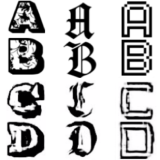
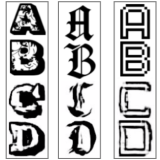
adding EMNLP

diff --git a/index.html b/index.html
@@ -60,6 +60,40 @@
         </tbody></table>
         <table style="width:100%;border:0px;border-spacing:0px;border-collapse:separate;margin-right:auto;margin-left:auto;"><tbody>
 
+          <tr onmouseout="font_stop()" onmouseover="font_start()">
+            <td style="padding:20px;width:25%;vertical-align:middle">
+              <div class="one">
+                <div class="two" id='font_image'><img src='images/font_after.png'></div>
+                <img src='images/font_before.png'>
+              </div>
+              <script type="text/javascript">
+                function font_start() {
+                  document.getElementById('font_image').style.opacity = "1";
+                }
+
+                function font_stop() {
+                  document.getElementById('font_image').style.opacity = "0";
+                }
+                font_stop()
+              </script>
+            </td>
+            <td style="padding:20px;width:75%;vertical-align:middle">
+              <a href="TODO">
+                <papertitle>A Deep Factorization of Style and Structure in Fonts</papertitle>
+              </a>
+              <br>
+              <a href="http://www.cs.cmu.edu/~asrivats/">Akshay Srivatsan</a>,
+              <strong>Jonathan T. Barron</strong>,
+              <a href="https://people.eecs.berkeley.edu/~klein/">Dan Klein</a>,
+              <a href="http://cseweb.ucsd.edu/~tberg/">Taylor Berg-Kirkpatrick</a>
+              <br>
+              <em>EMNLP</em>, 2019
+              <br>
+              <p></p>
+              <p>Variational auto-encoders can be used to disentangle a characters style from its content.</p>
+            </td>
+          </tr>
+          
           <tr onmouseout="dpzlearn_stop()" onmouseover="dpzlearn_start()">
             <td style="padding:20px;width:25%;vertical-align:middle">
               <div class="one">